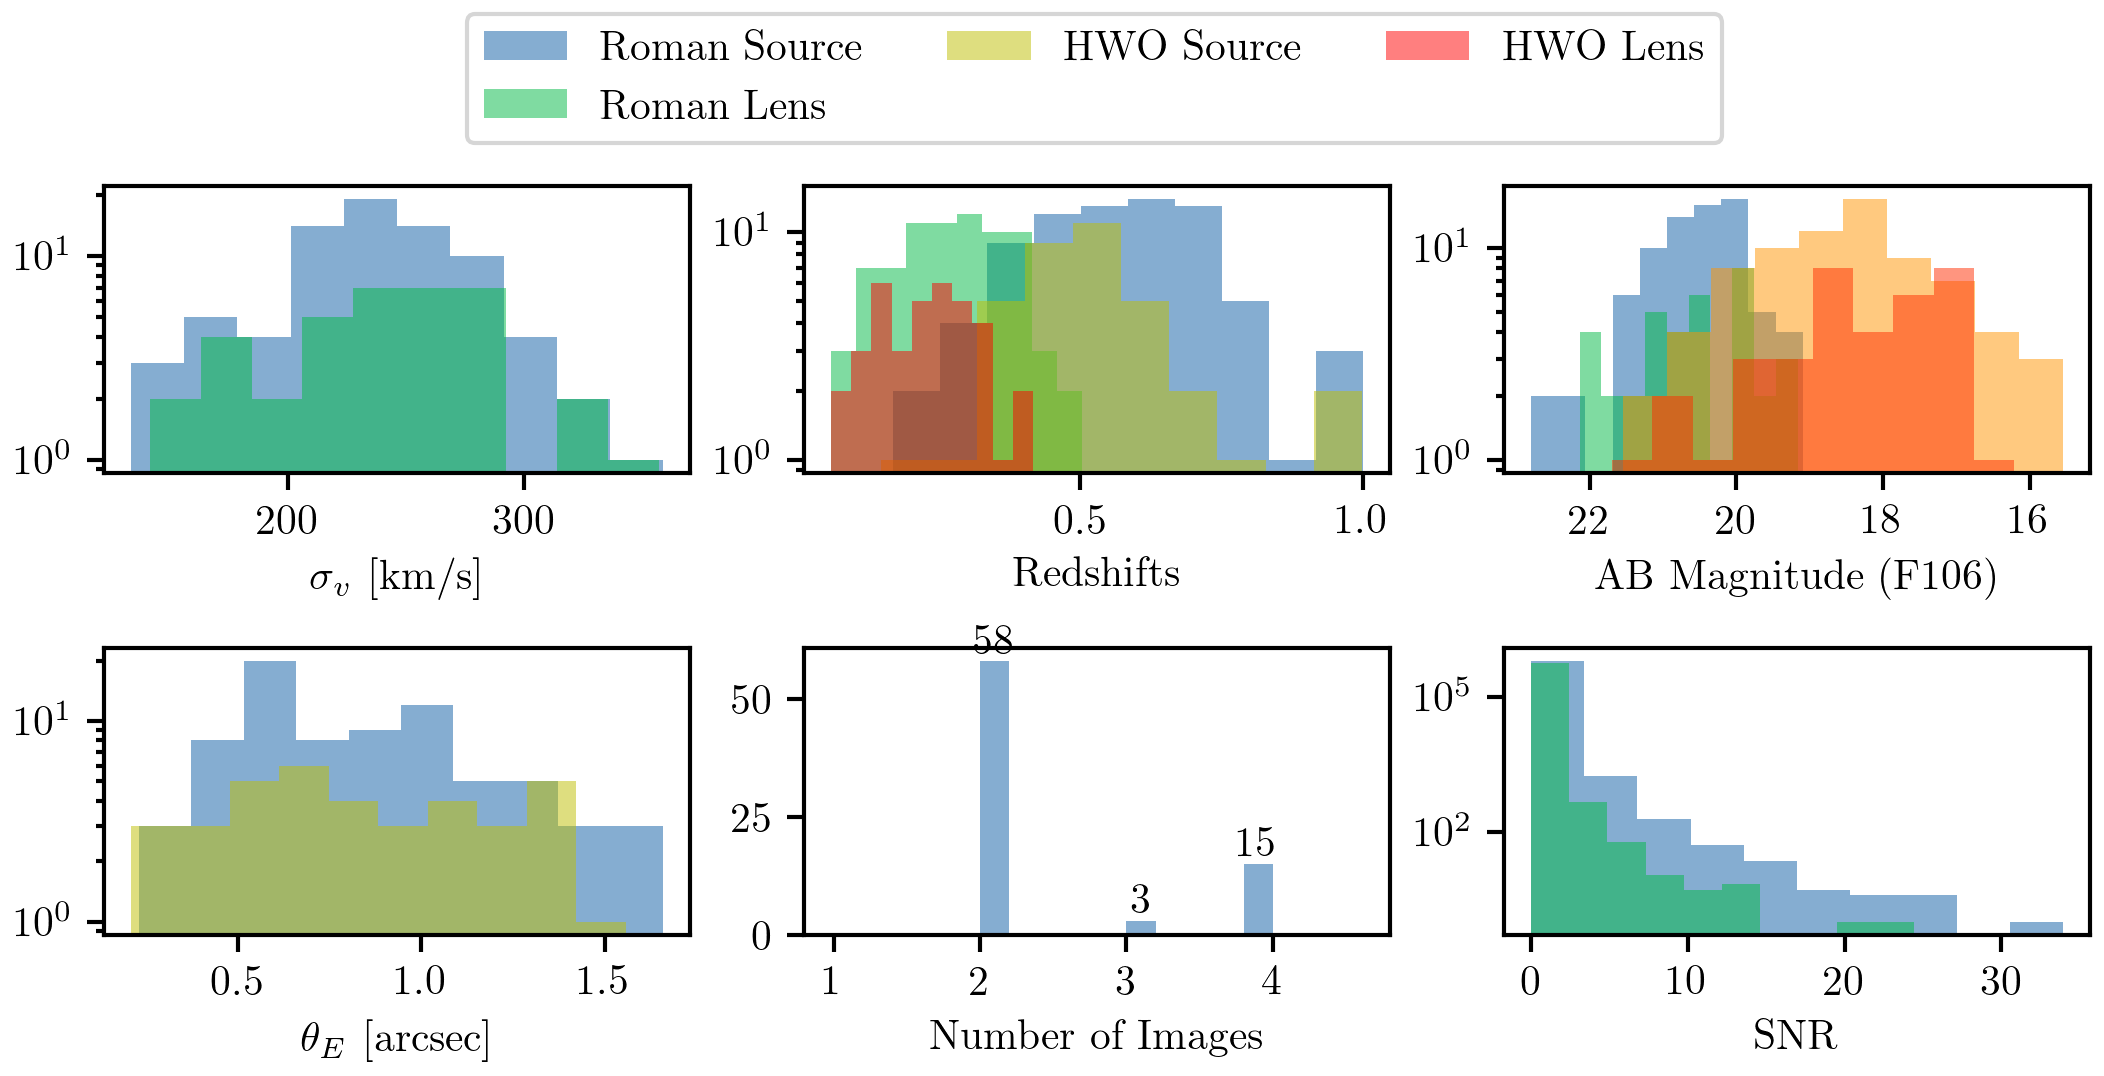
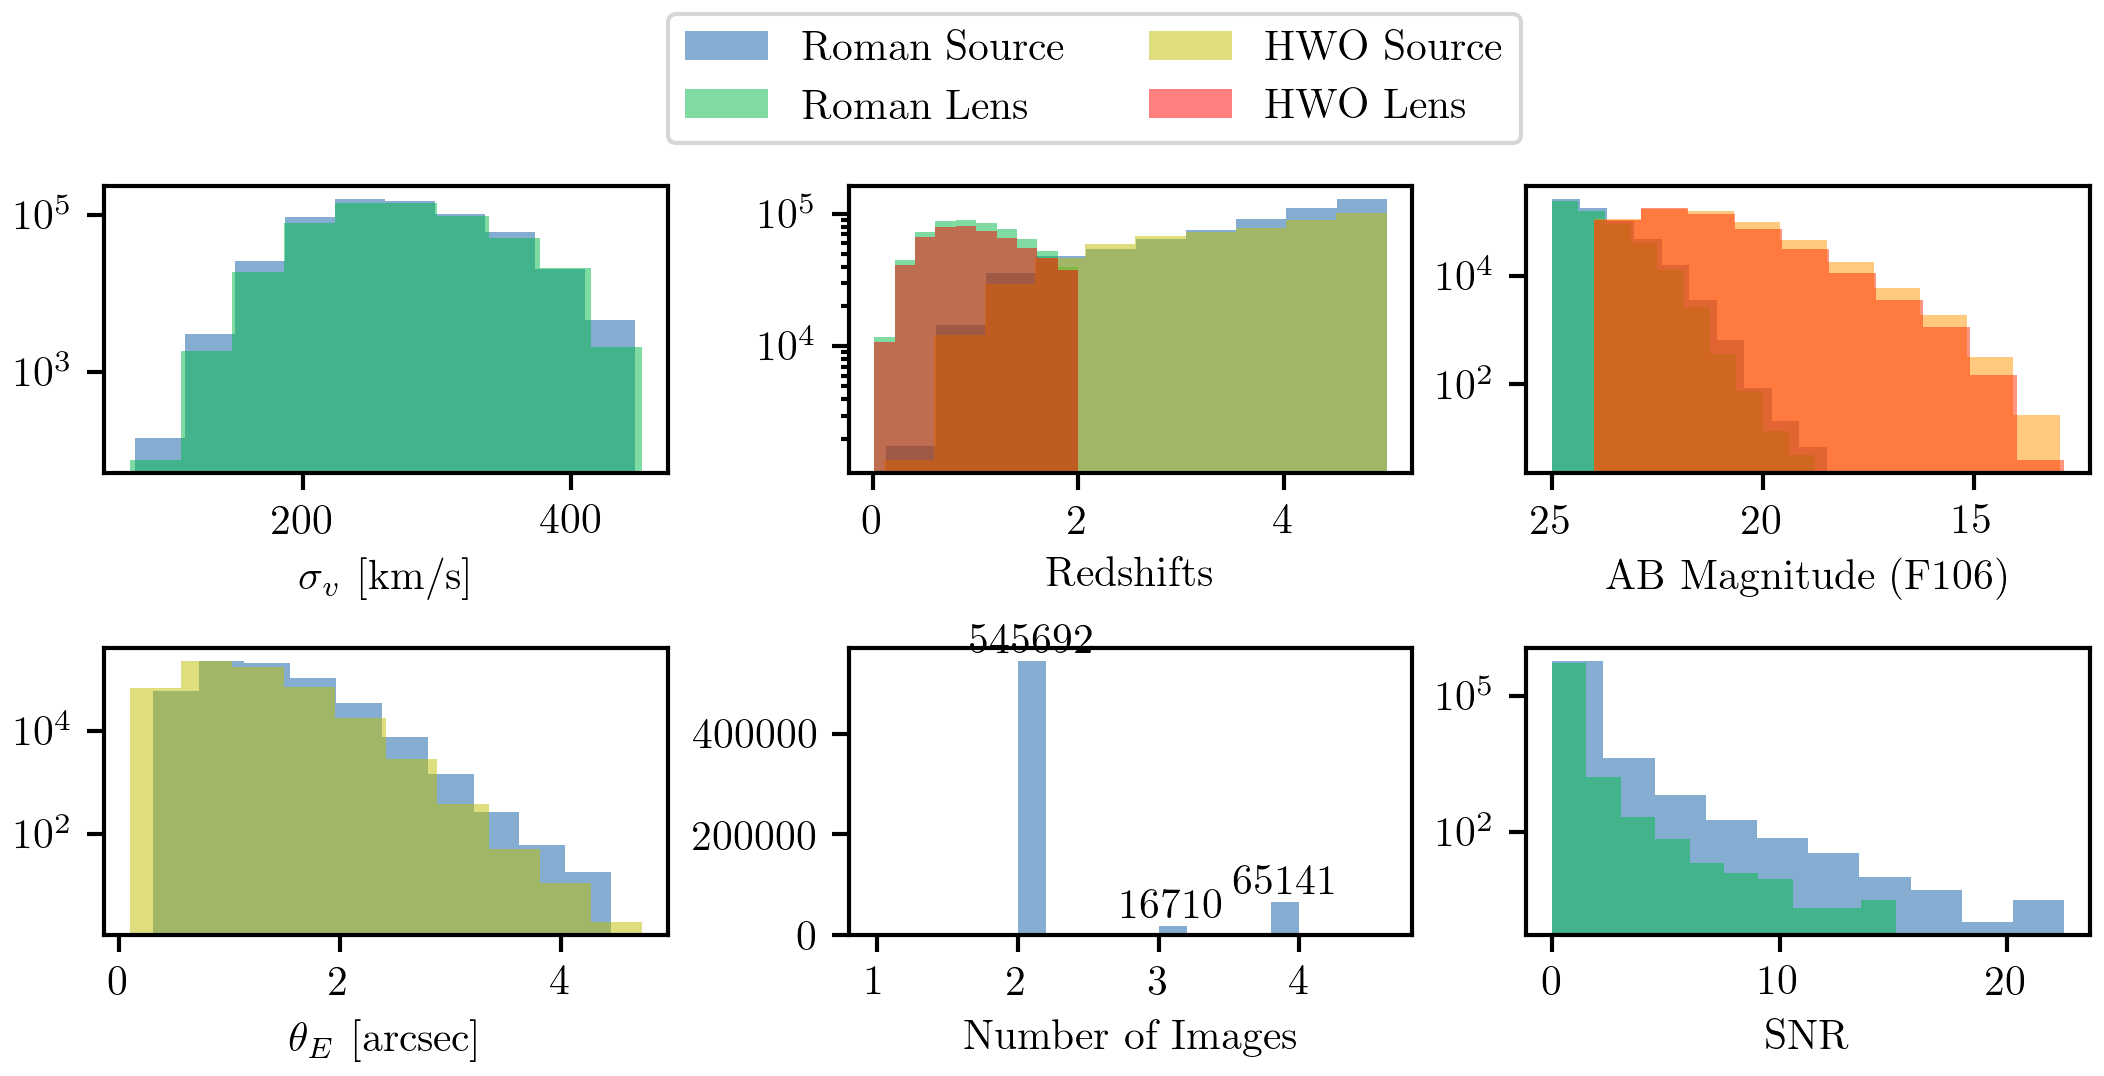
work on hwo survey compare

diff --git a/scripts/pipeline/00_hlwas_sim.py b/scripts/pipeline/00_hlwas_sim.py
@@ -184,13 +184,13 @@ def run_slsim(tuple):
             continue
 
         # 2. SNR
-        snr, _ = survey_sim.get_snr(candidate, 'F106')
+        # snr, _ = survey_sim.get_snr(candidate, 'F106')
 
-        if snr < 10:
-            filter_2 += 1
-            if filter_2 <= num_samples:
-                filtered_sample['filter_2'].append(candidate)
-            continue
+        # if snr < 10:
+        #     filter_2 += 1
+        #     if filter_2 <= num_samples:
+        #         filtered_sample['filter_2'].append(candidate)
+        #     continue
 
         # if both criteria satisfied, consider detectable
         detectable_gglenses.append(candidate)

diff --git a/scripts/pipeline/hwo.py b/scripts/pipeline/hwo.py
@@ -181,13 +181,13 @@ def run_slsim(tuple):
             continue
 
         # 2. SNR
-        snr, _ = survey_sim.get_snr(candidate, 'hdi')
+        # snr, _ = survey_sim.get_snr(candidate, 'hdi')
 
-        if snr < 10:
-            filter_2 += 1
-            if filter_2 <= num_samples:
-                filtered_sample['filter_2'].append(candidate)
-            continue
+        # if snr < 10:
+        #     filter_2 += 1
+        #     if filter_2 <= num_samples:
+        #         filtered_sample['filter_2'].append(candidate)
+        #     continue
 
         # if both criteria satisfied, consider detectable
         detectable_gglenses.append(candidate)
